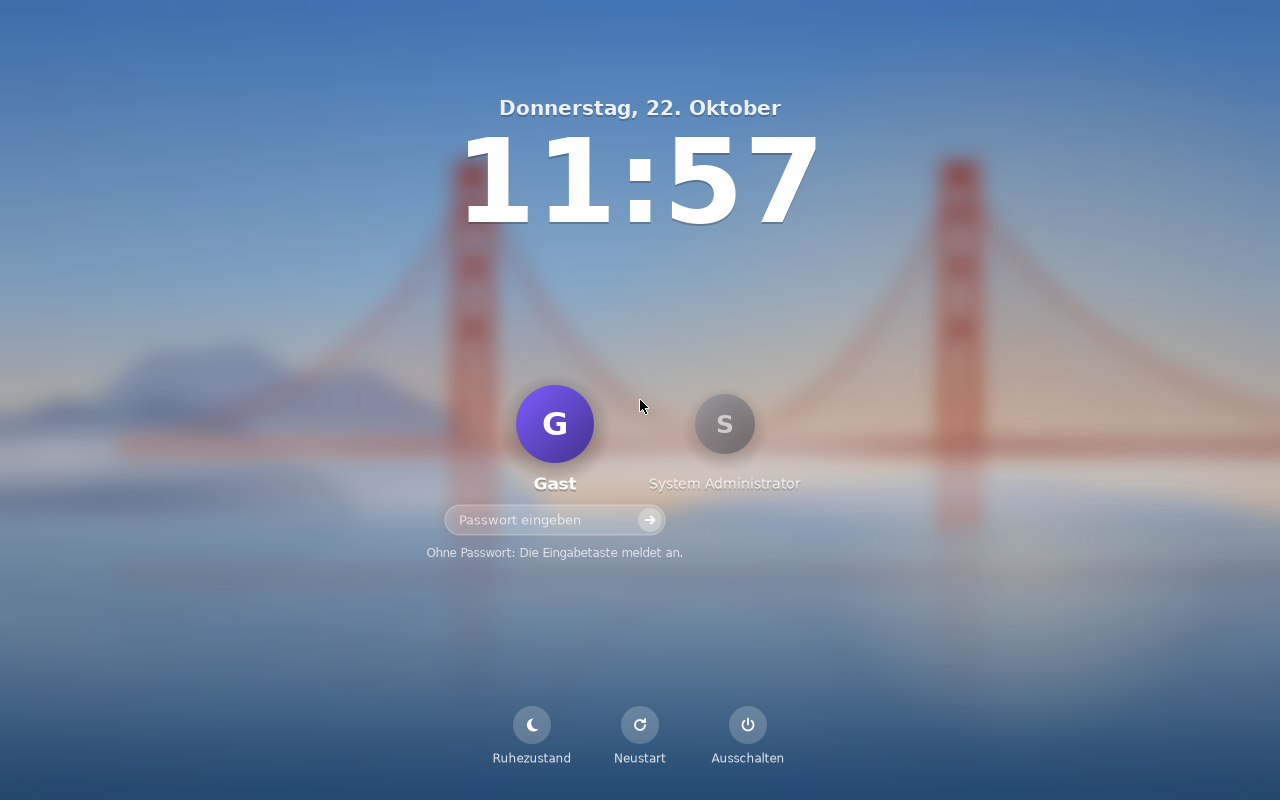
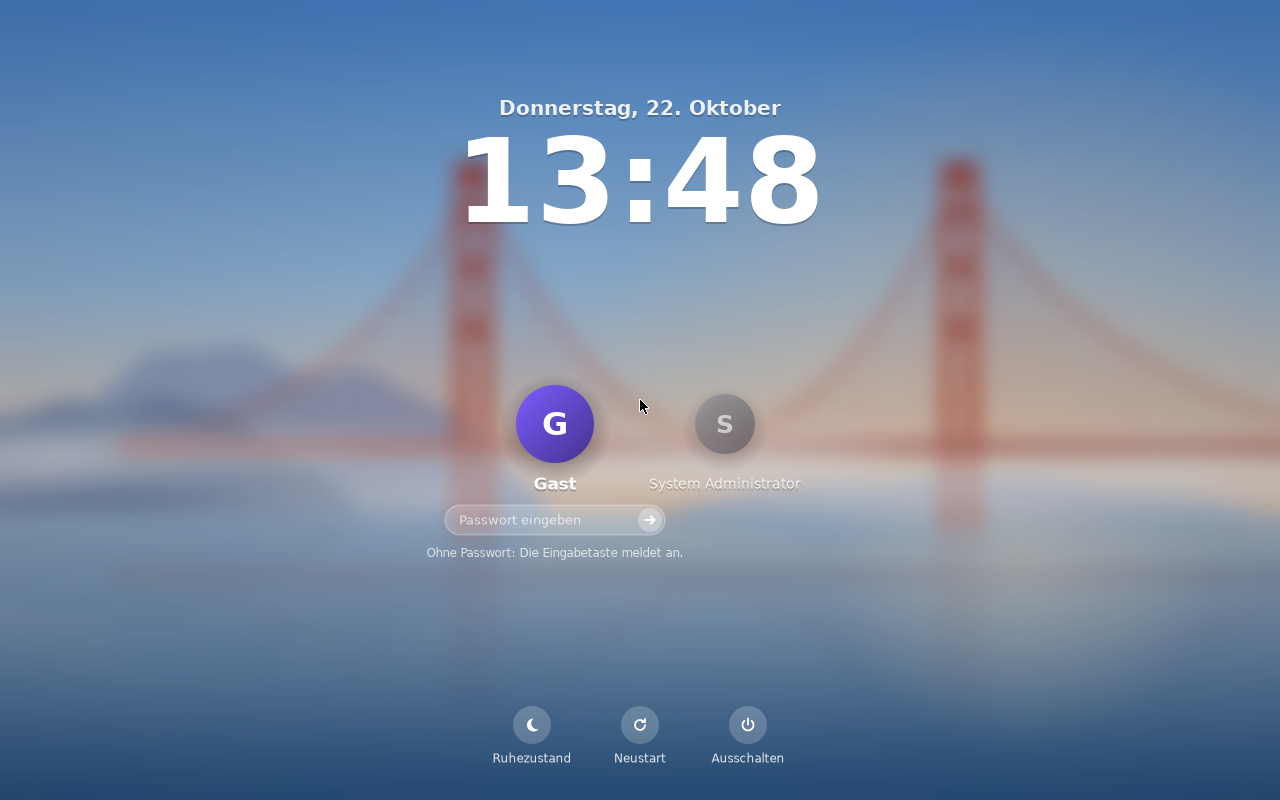
arm64-Desktop: Uhr zuverlässig, arm64e-Hinweis, x86 gegengetestet
configd aus arm64-Images (räumte die Route ab), Zeitabruf mit fünf Versuchen,
CloakServer wartet kurz auf die Uhr. CloakServer meldet reine arm64e-Programme.
Anmeldung nach 12,6 s (drei Messungen).

Changed region(s): [[0.4062, 0.1562, 0.6562, 0.2812]]

diff --git a/clokeos-darwin/cloakserver/cloakserver.h b/clokeos-darwin/cloakserver/cloakserver.h
@@ -28,8 +28,9 @@ WinStyle cs_window_style(Window w);
 Pixmap cs_wallpaper(void);
 
 /* apps.c: Programme als .app-Bundles wie bei macOS */
-/* APP_ARCH: nur für die andere Architektur gebaut (arm64 auf x86_64 oder umgekehrt) */
-enum { APP_OK, APP_APPKIT, APP_ARCH, APP_MISSING, APP_NOEXEC };
+/* APP_ARCH: nur für die andere Architektur gebaut (arm64 auf x86_64 oder umgekehrt);
+ * APP_ARM64E: nur arm64e (Apples eigene Programme), das ClokeOS auf arm64 nicht ausführt */
+enum { APP_OK, APP_APPKIT, APP_ARCH, APP_MISSING, APP_NOEXEC, APP_ARM64E };
 /* Darlings Mac-Frameworks (AppKit, Foundation …, macapps/), gefunden über DYLD_FRAMEWORK_PATH */
 #define MAC_FRAMEWORKS "/Library/ClokeOS/MacFrameworks"
 typedef struct {

diff --git a/clokeos-darwin/cloakserver/cloakserver.c b/clokeos-darwin/cloakserver/cloakserver.c
@@ -2914,6 +2914,11 @@ static void problem_text(const App *a, char *buf, size_t n) {
                      "(x86_64); es braucht eine Intel- oder Universal-Fassung.");
 #endif
     break;
+  case APP_ARM64E:
+    snprintf(buf, n, "Das Programm ist nur für arm64e gebaut, die Variante mit Zeigersignaturen, die Apple für "
+                     "seine eigenen Programme nutzt. ClokeOS führt arm64e nicht aus; es braucht eine Fassung für "
+                     "arm64 oder eine Universal-Fassung.");
+    break;
   case APP_MISSING:
     snprintf(buf, n, "Das Mac-Programm braucht %s, das es in ClokeOS nicht gibt.", a->b.missing);
     break;

diff --git a/clokeos-darwin/cloakserver/apps.c b/clokeos-darwin/cloakserver/apps.c
@@ -316,6 +316,13 @@ static void check_thin(Bundle *b, const unsigned char *m, size_t len) {
     b->kind = APP_ARCH;
     return;
   }
+#if defined(__arm64__) || defined(__aarch64__)
+  /* arm64e (Zeigersignaturen) lehnt PureDarwins Kernel ab: "bad CPU type in executable" */
+  if ((le32(m + 8) & 0xffffff) == CPU_SUBTYPE_ARM64E) {
+    b->kind = APP_ARM64E;
+    return;
+  }
+#endif
   if (cpu != CPU_NATIVE) {
     b->kind = APP_NOEXEC;
     snprintf(b->missing, sizeof b->missing, "unbekannte Architektur");

diff --git a/README.md b/README.md
@@ -170,7 +170,7 @@ Grenzen:
 
 ### Desktop auf arm64
 
-![Anmeldung auf arm64 mit Apples Hypervisor, 11 Sekunden nach dem Start von QEMU](clokeos-darwin/anmeldung-arm64.png)
+![Anmeldung auf arm64 mit Apples Hypervisor, 12,6 Sekunden nach dem Start von QEMU](clokeos-darwin/anmeldung-arm64.png)
 
 ![Desktop auf arm64: Terminal, Fundus und „Über ClokeOS“ mit Architektur arm64, Prozessor „Apple processor“](clokeos-darwin/desktop-arm64.png)
 
@@ -178,7 +178,7 @@ Grenzen:
 cd clokeos-darwin && CLOKEOS_ARCH=arm64 CLOKEOS_FLAVOR=desktop ./brand.sh && CLOKEOS_ARCH=arm64 CLOKEOS_FLAVOR=desktop ./run.sh
 ```
 
-Basis ist PureDarwins Vorschau-Image `puredarwin-arm64-virt.img` (3,1 GiB). Mit Apples Hypervisor (HVF) steht die Anmeldung etwa 10 bis 13 Sekunden nach dem Start von QEMU da (x86_64 emuliert: knapp zwei Minuten), der Desktop eine Sekunde nach der Anmeldung; Terminal und Fundus öffnen in etwa einer Sekunde. Gemessen am 22.10.2026 auf dem Mac mit Apple-Chip. Was dafür nötig war, weil PureDarwins arm64-Image an mehreren Stellen nicht trägt:
+Basis ist PureDarwins Vorschau-Image `puredarwin-arm64-virt.img` (3,1 GiB). Mit Apples Hypervisor (HVF) steht die Anmeldung 12,6 Sekunden nach dem Start von QEMU da (drei Messungen, Shell nach 7,1 s; x86_64 emuliert: knapp 90 Sekunden), der Desktop eine Sekunde nach der Anmeldung; Terminal und Fundus öffnen in etwa einer Sekunde. Gemessen am 22.10.2026 auf dem Mac mit Apple-Chip. Was dafür nötig war, weil PureDarwins arm64-Image an mehreren Stellen nicht trägt:
 
 - **Bild über virtio-gpu.** Mit ramfb startet kein Grafiktreiber: `IOGOPFramebuffer` hängt sich auf arm64 nur an einen „framebuffer“-Knoten, den PureDarwin bloß für den Raspberry Pi anlegt. Xorgs Treiber `puredarwingop` nimmt auf arm64 zuerst `IOVirtIOGPU`; `run.sh` gibt dem Desktop deshalb `virtio-gpu-pci` (1280 × 800). Die Firmware bietet dort nur Blt an, der Kernel bekommt also keinen Framebuffer; mit PureDarwins Boot-Argumenten `-v gopconsole=1 serial_video_mirror=1` malt er seine Konsole trotzdem und hängt in einer Endlosschleife. ClokeOS setzt eigene Boot-Argumente ohne diese (`config.sh`). Ein Bootlogo gibt es auf arm64 noch nicht; das Bild bleibt schwarz, bis CloakServer den Umhang zeigt.
 - **Kernel-Panik beim ersten Bild.** `IOVirtIOGPU::setConsoleDrawing` schaltet beim ersten Bild von Xorg die Kernel-Konsole ab; dabei schreibt der Kernel in `cons_ops_index`, das in PureDarwins arm64-Kernel schreibgeschützt liegt („Unexpected fault in kernel static region“). `kcfix.py` ersetzt diesen einen Aufruf im Kernel Collection durch `nop` (die x86-Farbkorrektur braucht arm64 nicht, dort zeichnet `IOGOPFramebuffer` nicht).
@@ -186,12 +186,12 @@ Basis ist PureDarwins Vorschau-Image `puredarwin-arm64-virt.img` (3,1 GiB). Mit 
 - **libXcursor.** Die einzige `libXcursor.1.dylib` des Images ist eine x86_64-Datei, GTK sucht die 13 Xcursor-Funktionen aber zur Laufzeit; Terminal, NetSurf und Xfce-Einstellungen brachen ab. ClokeOS baut sie aus `libXcursor.a` neu und lädt sie mit `DYLD_INSERT_LIBRARIES` in die Sitzung.
 - **Kein System-V-Shared-Memory.** `shmget` beendet Programme mit SIGSYS (cairo prüft damit MIT-SHM). CloakServer ignoriert SIGSYS, seine Programme erben das und zeichnen ohne Shared Memory.
 - **D-Bus.** PureDarwins `dbus-launch` startet auf arm64 nicht (sucht `xcb_parse_display`). Die Sitzung läuft jetzt auf beiden Architekturen über `dbus-run-session`, der Bus des Benutzers über `dbus-daemon --fork`.
-- **Netz und Uhr.** configd benennt die Karte, holt aber keine Adresse; `com.clokeos.network` (feste Adresse, Uhr per HTTP) kommt deshalb in jedes arm64-Image.
-- **Xorg kreiste mit voller Last.** PureDarwins Tastatur- und Maustreiber beantworten `poll` sofort mit `POLLNVAL`, Xorg wartete deshalb nie: Eine zsh-Schleife mit 2 Mio. Durchläufen brauchte 6,8 statt 3,5 s. `cloakserver/xpoll.c` (in Xorg geladen von `cloakserver-xorg`) fragt solche Geräte alle 10 ms ab; danach braucht die Schleife mit Xorg 3,5 s, Xorg selbst 0,1 % CPU. Die Bibliothek ist auch im x86-Image; ob x86_64 denselben Fehler hat, ist noch nicht gemessen.
+- **Netz und Uhr.** configd benennt die Karte, holt aber keine Adresse, und startete es nach `com.clokeos.network`, räumte es dessen Default-Route wieder ab (dann keine Uhrzeit, kein Internet). brand.sh nimmt configd aus arm64-Images heraus; `com.clokeos.network` (feste Adresse, Uhr per HTTP, bis zu fünf Versuche) kommt in jedes arm64-Image. CloakServer wartet höchstens 5 s auf die Uhr, damit die Anmeldung nicht 1970 und das Nachtbild zeigt; Xorg startet unterdessen schon.
+- **Xorg kreiste mit voller Last.** PureDarwins Tastatur- und Maustreiber beantworten `poll` sofort mit `POLLNVAL`, Xorg wartete deshalb nie: Eine zsh-Schleife mit 2 Mio. Durchläufen brauchte 6,8 statt 3,5 s. `cloakserver/xpoll.c` (in Xorg geladen von `cloakserver-xorg`) fragt solche Geräte alle 10 ms ab; danach braucht die Schleife mit Xorg 3,5 s, Xorg selbst 0,1 % CPU. x86_64 hat denselben Fehler; dort liegt Xorg mit der Bibliothek bei etwa 4 % unter Emulation.
 
-Mac-Programme: arm64-Kommandozeilenprogramme aus Apples SDK laufen (auch mit „chained fixups“), arm64e (Apples eigene Programme) lehnt der Kernel ab („bad CPU type“). CloakServer prüft Programme jetzt gegen die eigene Architektur; Intel-Programme melden auf arm64, dass es kein Rosetta gibt. Darlings Mac-Frameworks baut `macapps/` nur für x86_64: Darlings CoreFoundation hat die Assembler-Teile für Nachrichtenweiterleitung und `NSInvocation` nur für x86, nicht für arm64.
+Mac-Programme: arm64-Kommandozeilenprogramme aus Apples SDK laufen (auch mit „chained fixups“), arm64e (Apples eigene Programme) lehnt der Kernel ab („bad CPU type“). CloakServer prüft Programme jetzt gegen die eigene Architektur: Intel-Programme melden auf arm64, dass es kein Rosetta gibt, reine arm64e-Programme, dass ClokeOS arm64e nicht ausführt. Darlings Mac-Frameworks baut `macapps/` nur für x86_64: Darlings CoreFoundation hat die Assembler-Teile für Nachrichtenweiterleitung und `NSInvocation` nur für x86, nicht für arm64.
 
-Offen: Die VM belegt auch im Leerlauf einen Kern des Macs ganz; im Gast rechnet dann kein Prozess, die Zeit verbringt PureDarwins Kernel in seiner Leerlaufschleife (nicht weiter untersucht). Die Uhr kommt nicht immer: In einem von drei Starts meldete `netcat` zu example.com „Network is unreachable“, obwohl der Router antwortet (Ursache offen, `clokeos-network` versucht es jetzt fünfmal). Die Änderungen an gemeinsamem Code (CloakServer, `kcfix.py`, `brand.sh`, D-Bus) sind auf x86_64 noch nicht neu gebootet.
+Offen: Die VM belegt auch im Leerlauf einen Kern des Macs ganz; im Gast rechnet dann kein Prozess, die Zeit verbringt PureDarwins Kernel in seiner Leerlaufschleife (nicht weiter untersucht). Die x86_64-Desktop-Variante ist mit allen Änderungen neu gebaut und gebootet (Anmeldung, Terminal, D-Bus über dbus-daemon).
 
 ### Architekturen
 
@@ -200,7 +200,7 @@ Offen: Die VM belegt auch im Leerlauf einen Kern des Macs ganz; im Gast rechnet 
 | x86_64 (QEMU q35, UEFI) | gebaut, gebootet, als Release | PureDarwin 20.5, `puredarwin-minimal.img` |
 | x86_64 mit Desktop | gebaut, gebootet bis CloakServer, kein Release | PureDarwins Vorschau-Image `puredarwin.img` (6,1 GiB, von puredarwin.org) |
 | arm64 (QEMU virt) | gebaut, gebootet mit Apples Hypervisor und emuliert, Netzwerk, noch kein Release | PureDarwins Vorschau-Image `puredarwin-arm64-virt-minimal.img` (578 MiB, von puredarwin.org) |
-| arm64 mit Desktop | gebaut, gebootet bis CloakServer mit HVF, Anmeldung nach etwa 11 s, kein Release | PureDarwins Vorschau-Image `puredarwin-arm64-virt.img` (3,1 GiB, von puredarwin.org) |
+| arm64 mit Desktop | gebaut, gebootet bis CloakServer mit HVF, Anmeldung nach 12,6 s, kein Release | PureDarwins Vorschau-Image `puredarwin-arm64-virt.img` (3,1 GiB, von puredarwin.org) |
 | Raspberry Pi 3 | offen | PureDarwin bootet dort bis zur Shell, bietet aber kein fertiges Image an |
 
 Die Architektur wählt `CLOKEOS_ARCH`, für alle Skripte gleich:
